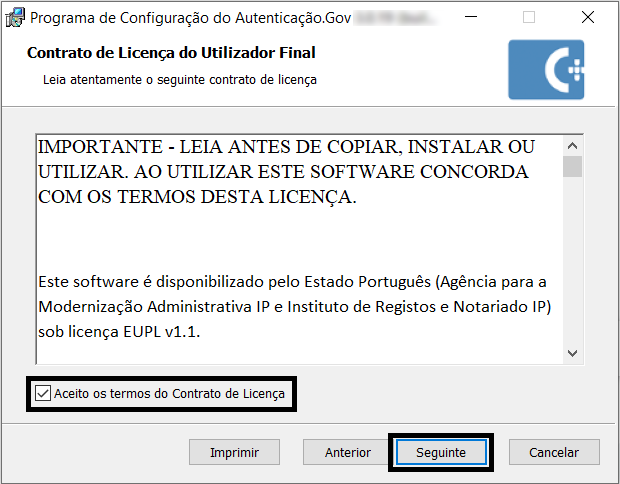
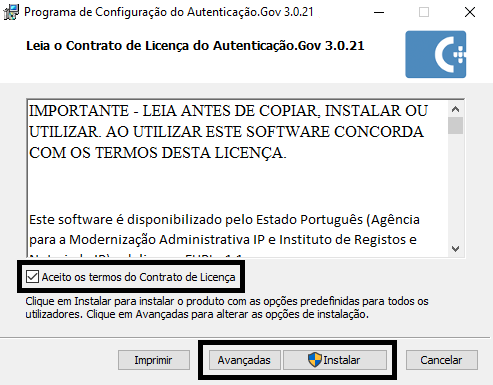
Update manual with description of Windows installation with advanced UI.

Changed region(s): [[0.0, 0.0, 1.0, 1.0], [0.9128, 0.7169, 0.9432, 0.7481]]

diff --git a/user_manual.md b/user_manual.md
@@ -165,26 +165,25 @@ sistema operativo utilizado.
 ### Instalação em Microsoft Windows
 
 1.  Executar o pacote de instalação: Após ter descarregado o ficheiro de
-    instalação, deverá fazer duplo clique sobre este, surgindo um ecrã
-    semelhante aos apresentados de seguida:
+    instalação, deverá fazer duplo clique sobre este.
 
-    ![Ilustração: Instalação da aplicação em Windows](Pictures/Autenticacao.Gov_Instalacao.png "Instalação da aplicação em Windows"){:.center}
-
-2.  Neste ecrã, deverá premir o botão **Seguinte** e marcar a caixa
-    (com um certo, clicando no botão esquerdo do rato), para
-    aceitar os termos e condições da aplicação.
+2.  No primeiro ecrã interativo, deverá marcar a caixa para aceitar os termos e condições da aplicação. Para uma instalação simples, pressione **Instalar** (prossiga para o passo 5). Para uma instalação avançada, pressione **Avançadas**. A instalação avançada permite configurar o caminho para a pasta de instalação e as funcionalidades a serem instaladas.
 
     ![Ilustração: Instalação da aplicação em Windows](Pictures/Autenticacao.Gov_Instalacao_termos.png "Instalação da aplicação em Windows"){:.center}
 
-3.  Neste passo, poderá escolher a pasta onde deseja instalar o
+3.  Após selecionar **Avançadas**, poderá escolher a pasta onde deseja instalar o
     *middleware*. Se desejar alterar a pasta predefinida, carrege em
     **Alterar** e na janela que surgir, navegue até à pasta de destino
     e carregue **OK**. Para continuar a instalação na pasta de destino,
     deverá premir o botão **Seguinte**.
-4.  Deverá aparecer também um ecrã com a opção de **Instalar**, deverá
-    premir esse botão.
+
+4.  Deverá aparecer um ecrã para escolher as funcionalidades a serem instaladas. As funcionalidades são representadas numa árvore em que cada funcionalidade possui um botão para a incluir ou excluir da instalação. Ao selecionar uma funcionalidade, será apresentada a sua descrição e o espaço necessário para a sua instalação. Para instalar as funcionalidades selecionadas, clique em **Instalar**.
+
+    ![Ilustração: Instalação da aplicação em Windows](Pictures/Autenticacao.Gov_Instalacao_funcionalidades.png "Instalação da aplicação em Windows"){:.center}
+
 5.  Após a conclusão deste assistente, este solicitará a reinicialização
     do computador.
+
 6.  No próximo arranque do *Windows* a instalação do *middleware* estará
     finalizada.
 
